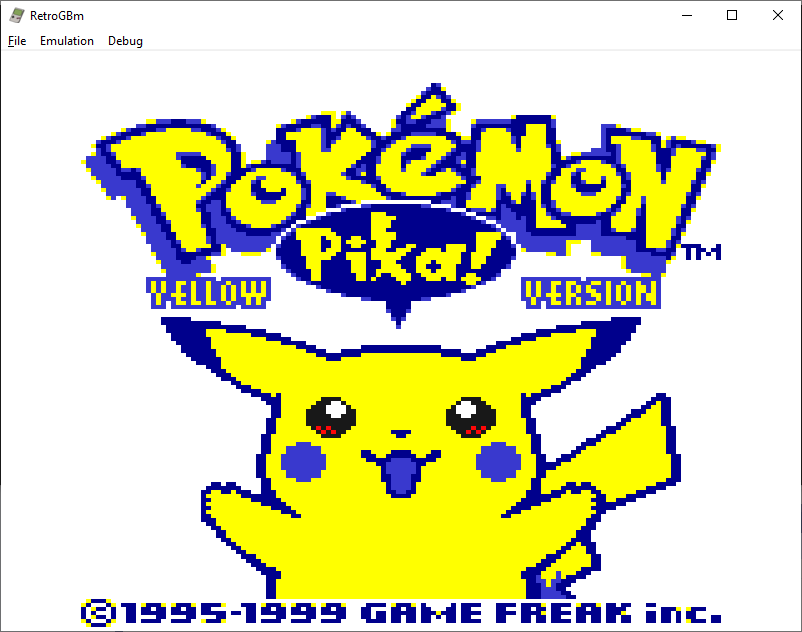
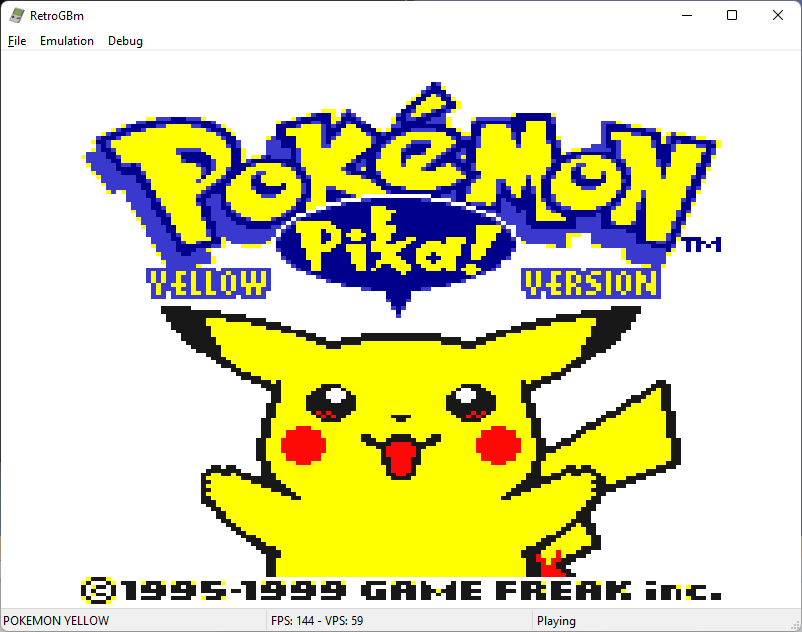
Updated version and readme (#112)
* Updated readme

* Updated version

Changed region(s): [[0.0, 0.0, 1.0, 1.0], [0.0, 0.0, 0.0312, 0.0301]]

diff --git a/README.md b/README.md
@@ -14,6 +14,7 @@ Gameboy Colour emulator written in C++ for Windows and Android.
 ![Pokemon Yellow](/Images/pokemon_yellow.png)
 ![Donkey Kong Land](/Images/donkey_kong_land.png)
 ![Super Mario Land](/Images/super_mario_land.png)
+![Mario Tennis](/Images/mario_tennis.png)
 
 ## Build
 
@@ -37,10 +38,10 @@ Gameboy Colour emulator written in C++ for Windows and Android.
 | Dr Mario		    | ★★★★★ |  |
 | Pokemon Red		| ★★★★★ |  |
 | Zelda - Link's Awakening DX | ★★★★★ |  |
-| Pokemon Yellow    | ★★★★☆ | Colour palette is sometimes incorrect |
+| Pokemon Yellow    | ★★★★★ |  |
 | Super Mario Land  | ★★★★☆ | Pause screen is incorrectly displayed |
 | Pokemon Gold		| ★★★★☆ | RTC doesn't work |
-| Pokemon Crystal	| ★★★☆☆ | Menu doesn't clear correctly |
+| Pokemon Crystal	| ★★★★☆ | RTC doesn't work |
 
 ## Test roms
 
